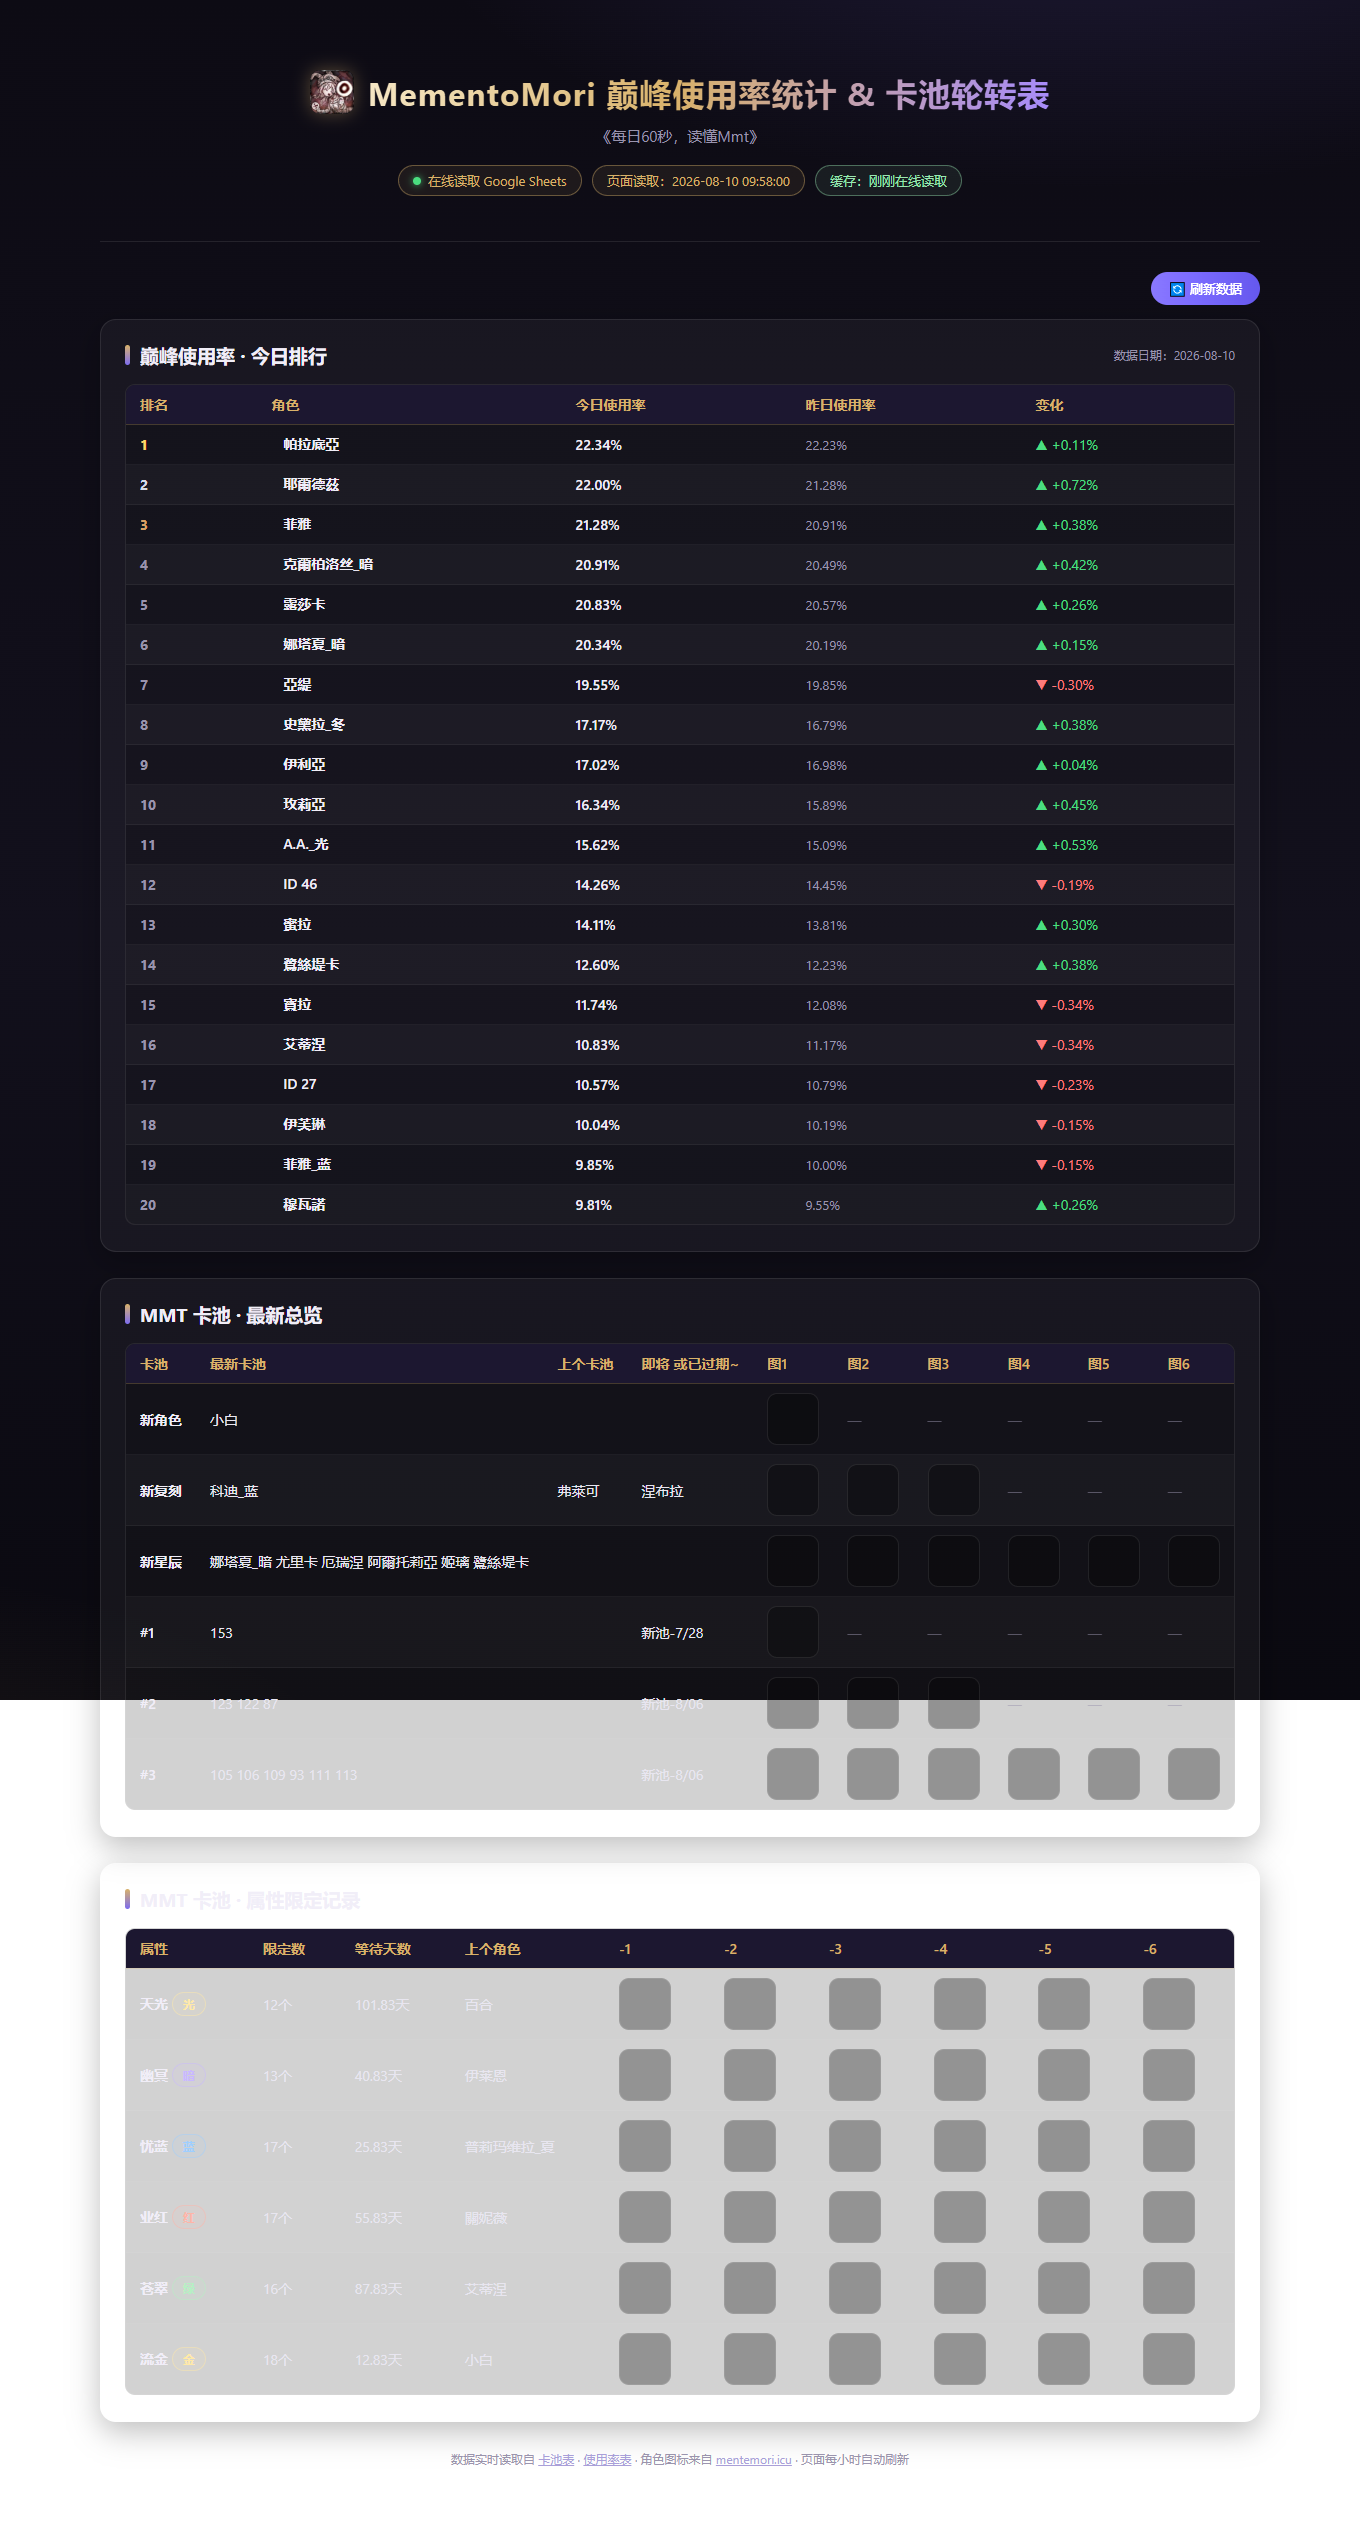
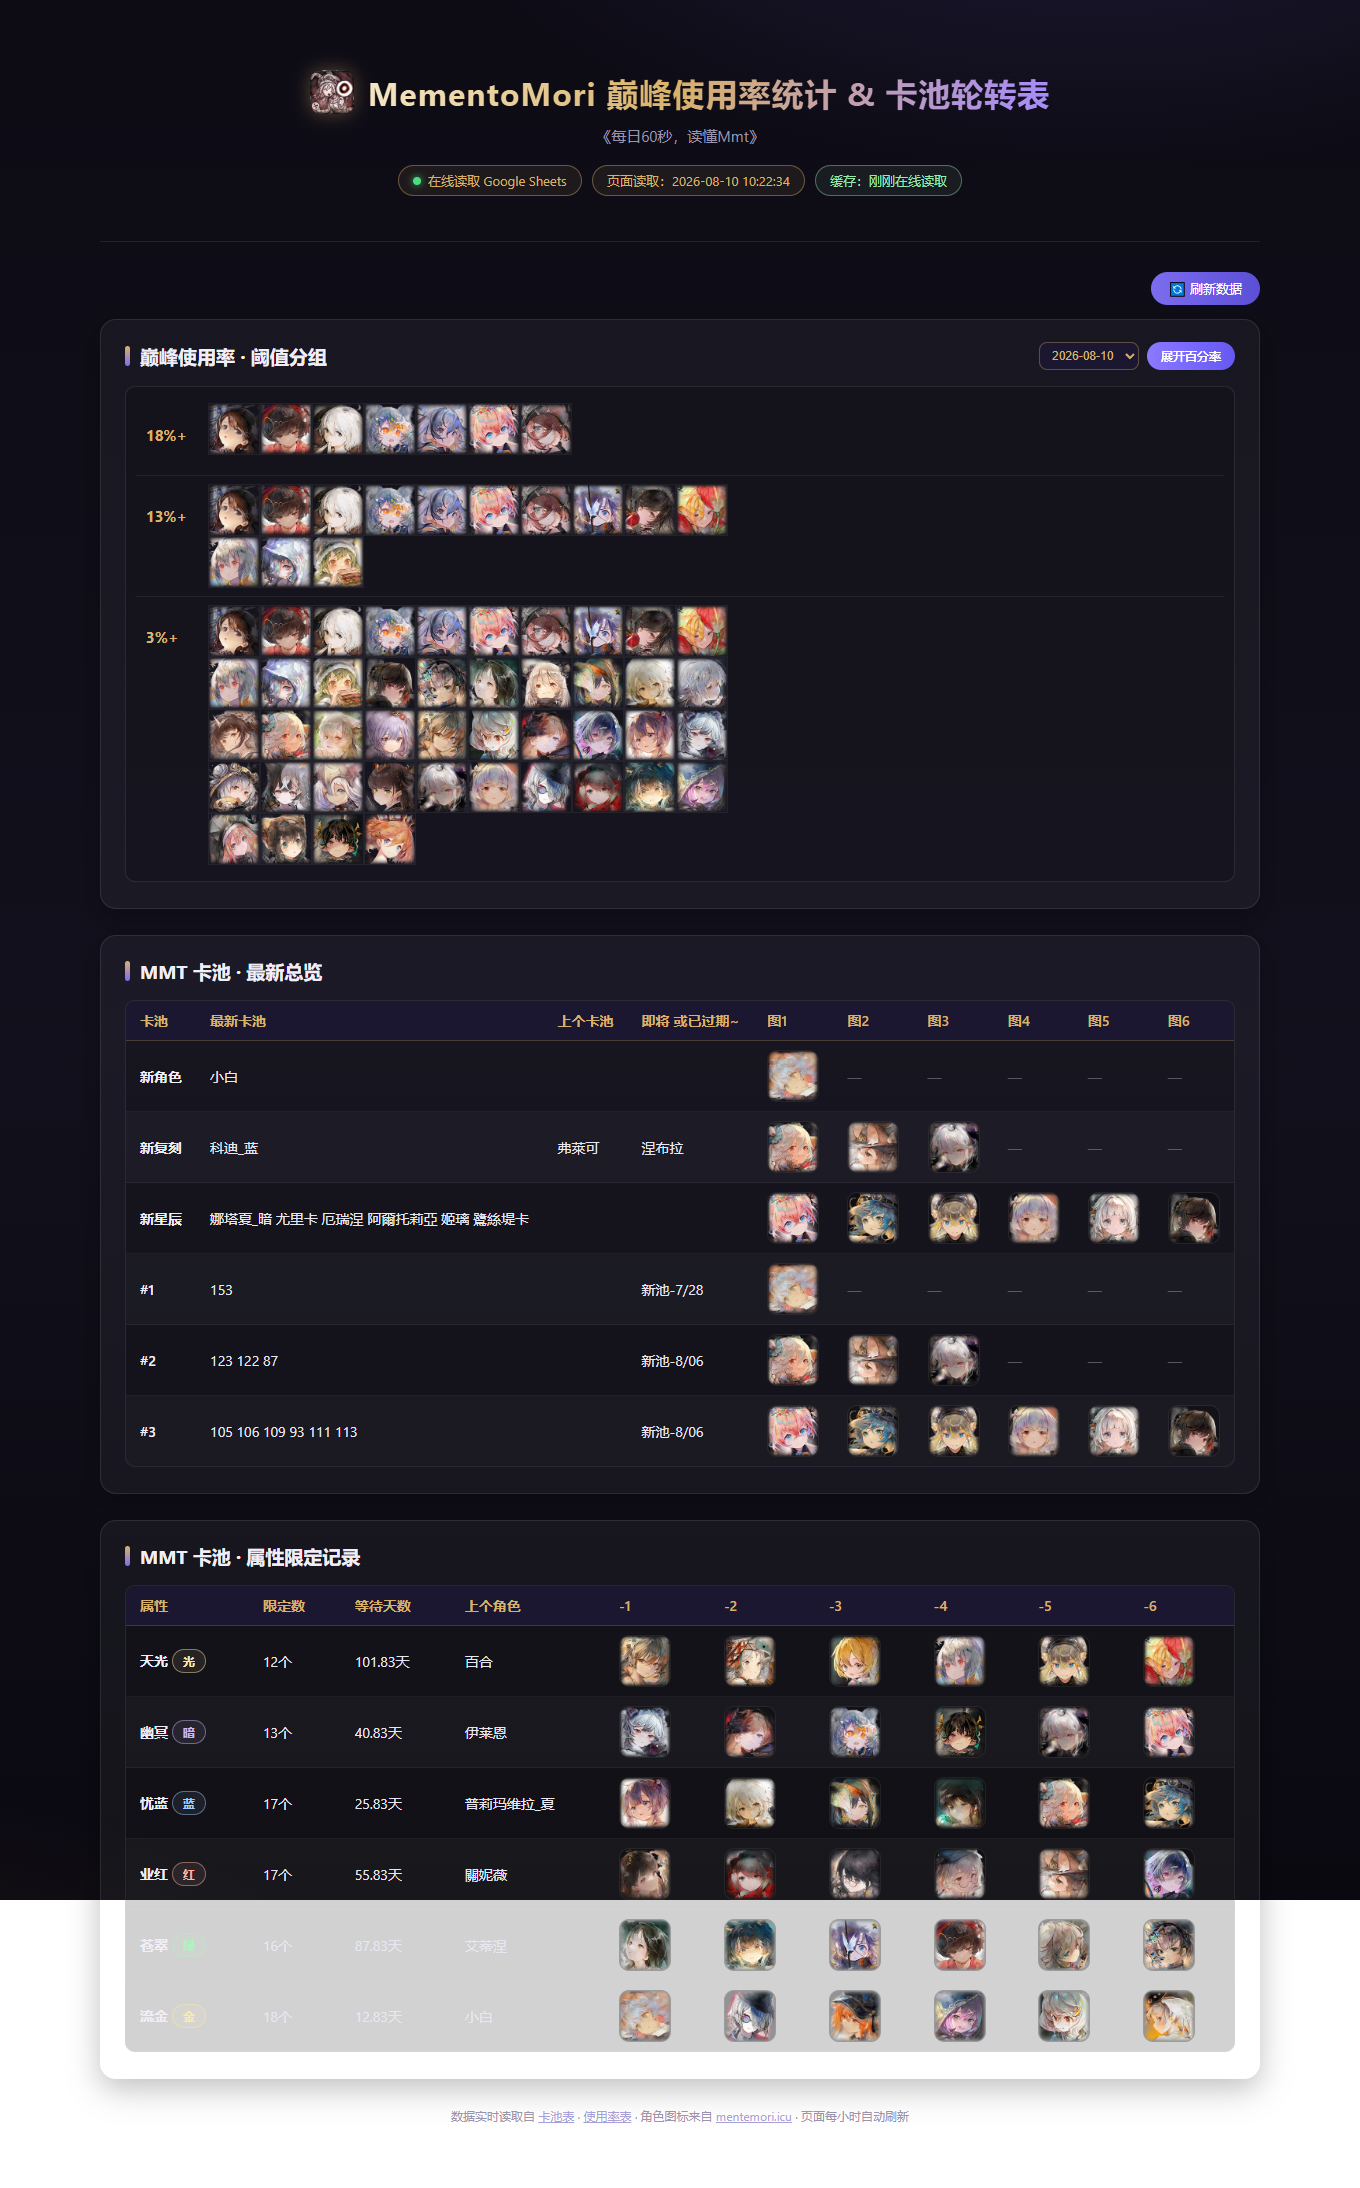
使用率表改为18%+/13%+/3%+阈值分组图标行(10个一行自动换行)，支持展开百分率与日期选择；去掉标题统计图emoji

diff --git a/index.html b/index.html
@@ -3,7 +3,7 @@
 <head>
 <meta charset="UTF-8">
 <meta name="viewport" content="width=device-width, initial-scale=1">
-<title>📊 MementoMori 巅峰使用率统计 &amp; 卡池轮转表</title>
+<title>MementoMori 巅峰使用率统计 &amp; 卡池轮转表</title>
 <link rel="icon" href="icon.png">
 <style>
 :root{
@@ -170,6 +170,19 @@ tbody tr:last-child td{border-bottom:none}
 .down{color:var(--down)}
 .flat{color:var(--muted)}
 .usage-pct{font-weight:600;color:#f1eef8}
+.usage-wrap{padding:8px 10px}
+.grp{display:flex;align-items:flex-start;border-bottom:1px solid rgba(255,255,255,.06)}
+.grp:last-child{border-bottom:none}
+.grp-label{flex:0 0 72px;padding:14px 10px;font-weight:700;color:var(--gold);font-size:15px;line-height:52px}
+.grp .icons{display:flex;flex-wrap:wrap;width:520px;gap:0;padding:8px 0}
+.ic{width:52px;height:52px;position:relative;overflow:hidden;border:1px solid rgba(255,255,255,.06)}
+.ic img{width:100%;height:100%;object-fit:cover;display:block}
+.ic .pct{display:none;position:absolute;left:0;right:0;bottom:0;background:rgba(10,8,20,.72);color:#ffe9a8;font-size:10px;line-height:14px;text-align:center}
+.usage-wrap.expanded .ic .pct{display:block}
+.h2-note{display:flex;align-items:center;gap:8px}
+.h2-note select{background:#1c1730;color:var(--gold);border:1px solid rgba(217,178,106,.35);border-radius:8px;padding:5px 8px;font-size:12px;outline:none}
+button.mini{background:linear-gradient(90deg,#7c6cf0,#5b4fd6);color:#fff;border:none;border-radius:999px;padding:6px 14px;font-size:12px;cursor:pointer}
+button.mini:hover{filter:brightness(1.12)}
 .usage-prev{color:var(--muted);font-size:13px}
 .loading,.error{color:var(--muted);padding:30px;text-align:center}
 .error{color:#ff9d9d}
@@ -207,8 +220,11 @@ footer a{color:#a99fd9}
   </div>
 
   <section class="card">
-    <h2>巅峰使用率 · 今日排行<span class="h2-note" id="usage-note"></span></h2>
-    <div class="table-wrap" id="tbl-usage"></div>
+    <h2>巅峰使用率 · 阈值分组<span class="h2-note">
+      <select id="usage-day" onchange="onDayChange()"></select>
+      <button type="button" id="btn-pct" class="mini" onclick="togglePct()">展开百分率</button>
+    </span></h2>
+    <div class="table-wrap usage-wrap" id="tbl-usage"></div>
   </section>
 
   <section class="card">
@@ -360,27 +376,33 @@ function computeCardTables(rows){
 }
 
 // ---------- 巅峰使用率：动态率表（gid 1850986413）----------
+function fmtDayLabel(label){
+  const m = /^(\d{2})(\d{2})(\d{2})/.exec(String(label || ""));
+  return m ? "20" + m[1] + "-" + m[2] + "-" + m[3] : String(label || "");
+}
 function computeUsage(data){
   const cols = data.table ? data.table.cols : [];
   const rows = data.table ? data.table.rows : [];
-  const todayLabel = cols[2] ? String(cols[2].label || "") : "";
-  const prevLabel = cols[3] ? String(cols[3].label || "") : "";
-  const list = [];
-  for (const r of rows){
-    const id = getV(r, 0);
-    if (id === null || id === undefined) continue;
-    const tv = getV(r, 2);
-    const pv = getV(r, 3);
-    list.push({
-      id: String(id).trim(),
-      tv: typeof tv === "number" ? tv : NaN,
-      pv: typeof pv === "number" ? pv : NaN,
-      tf: getF(r, 2) || (typeof tv === "number" ? (tv * 100).toFixed(2) + "%" : "—"),
-      pf: getF(r, 3) || (typeof pv === "number" ? (pv * 100).toFixed(2) + "%" : "—")
-    });
+  const days = [];
+  for (let c = 2; c < cols.length; c++){
+    const label = String(cols[c].label || "").trim();
+    if (!label) continue;
+    days.push({ c: c, label: label, display: fmtDayLabel(label) });
   }
-  list.sort((a, b) => b.tv - a.tv);
-  return { todayLabel: todayLabel, prevLabel: prevLabel, list: list.slice(0, USAGE_TOP) };
+  const perDay = {};
+  for (const d of days){
+    const list = [];
+    for (const r of rows){
+      const id = getV(r, 0);
+      if (id === null || id === undefined) continue;
+      const v = getV(r, d.c);
+      if (typeof v !== "number") continue;
+      list.push({ id: String(id).trim(), v: v, f: getF(r, d.c) || (v * 100).toFixed(2) + "%" });
+    }
+    list.sort((a, b) => b.v - a.v);
+    perDay[d.c] = list;
+  }
+  return { days: days, perDay: perDay };
 }
 
 // ---------- 角色名映射（卡-0 A -> G/F）----------
@@ -447,37 +469,55 @@ function renderElements(el){
     + '<th>-1</th><th>-2</th><th>-3</th><th>-4</th><th>-5</th><th>-6</th>'
     + "</tr></thead><tbody>" + body + "</tbody></table>";
 }
-function renderUsage(usage, names){
-  const fmtLabel = l => {
-    const m = /^(\d{2})(\d{2})(\d{2})/.exec(String(l || ""));
-    return m ? "20" + m[1] + "-" + m[2] + "-" + m[3] : l;
-  };
-  document.getElementById("usage-note").textContent = "数据日期：" + fmtLabel(usage.todayLabel);
-  let body = "";
-  usage.list.forEach((u, i) => {
-    const rank = i + 1;
-    const rankCls = rank === 1 ? "top1" : rank === 2 ? "top2" : rank === 3 ? "top3" : "";
-    const nm = names[u.id] || "";
-    const diff = u.tv - u.pv;
-    let trend;
-    if (!isNaN(diff)){
-      if (diff > 0.00005) trend = '<span class="up">▲ +' + (diff * 100).toFixed(2) + "%</span>";
-      else if (diff < -0.00005) trend = '<span class="down">▼ ' + (diff * 100).toFixed(2) + "%</span>";
-      else trend = '<span class="flat">— 0.00%</span>';
-    } else {
-      trend = '<span class="flat">—</span>';
+let usageState = null;
+let selectedDay = null;
+let pctOpen = false;
+
+function groupsFor(list){
+  return [
+    { label: "18%+", th: 0.18 },
+    { label: "13%+", th: 0.13 },
+    { label: "3%+",  th: 0.03 }
+  ].map(g => ({ label: g.label, items: list.filter(x => x.v >= g.th) }));
+}
+function renderUsage(){
+  const wrap = document.getElementById("tbl-usage");
+  const sel = document.getElementById("usage-day");
+  const btn = document.getElementById("btn-pct");
+  if (!usageState || selectedDay === null || !usageState.perDay[selectedDay]){
+    wrap.innerHTML = '<div class="error">暂无使用率数据</div>';
+    return;
+  }
+  const names = usageState.names || {};
+  const groups = groupsFor(usageState.perDay[selectedDay]);
+  let html = "";
+  for (const g of groups){
+    html += '<div class="grp"><span class="grp-label">' + esc(g.label) + '</span><div class="icons">';
+    for (const x of g.items){
+      const p = x.id.padStart(6, "0");
+      const nm = names[x.id] || ("ID " + x.id);
+      html += '<span class="ic" title="' + esc(nm) + " " + esc(x.f) + '">'
+            + '<img src="' + ICON_BASE + p + ICON_SUFFIX + '" alt="' + esc(x.id) + '" loading="lazy"'
+            + ' onerror="imgFail(this)" data-id="' + esc(x.id) + '">'
+            + '<span class="pct">' + esc(x.f) + '</span>'
+            + '</span>';
     }
-    body += "<tr>"
-      + '<td class="rank ' + rankCls + '">' + rank + "</td>"
-      + '<td class="cell-name">' + iconHtml(u.id, "sm") + " " + esc(nm || ("ID " + u.id)) + "</td>"
-      + '<td class="usage-pct">' + esc(u.tf) + "</td>"
-      + '<td class="usage-prev">' + esc(u.pf) + "</td>"
-      + "<td>" + trend + "</td>"
-      + "</tr>";
-  });
-  document.getElementById("tbl-usage").innerHTML =
-    '<table><thead><tr><th>排名</th><th>角色</th><th>今日使用率</th><th>昨日使用率</th><th>变化</th>'
-    + "</tr></thead><tbody>" + body + "</tbody></table>";
+    html += '</div></div>';
+  }
+  wrap.innerHTML = html;
+  wrap.classList.toggle("expanded", pctOpen);
+  btn.textContent = pctOpen ? "收起百分率" : "展开百分率";
+  sel.innerHTML = usageState.days.map(d =>
+    '<option value="' + d.c + '"' + (d.c === selectedDay ? " selected" : "") + ">" + esc(d.display) + "</option>"
+  ).join("");
+}
+function onDayChange(){
+  selectedDay = parseInt(document.getElementById("usage-day").value, 10);
+  renderUsage();
+}
+function togglePct(){
+  pctOpen = !pctOpen;
+  renderUsage();
 }
 
 // ---------- 时间 ----------
@@ -536,7 +576,12 @@ function applyAll(card0Text, usageText){
   const t = computeCardTables(card0.table.rows);
   renderOverview(t.overview);
   renderElements(t.elements);
-  renderUsage(computeUsage(usage), nameMapOf(card0.table.rows));
+  usageState = computeUsage(usage);
+  usageState.names = nameMapOf(card0.table.rows);
+  if (!selectedDay || !usageState.perDay[selectedDay]){
+    selectedDay = usageState.days.length ? usageState.days[0].c : null;
+  }
+  renderUsage();
 }
 function showLoading(){
   const html = '<div class="loading"><span class="spinner"></span><br>正在在线读取并计算…</div>';

diff --git a/README.md b/README.md
@@ -8,3 +8,5 @@
 - 浏览器本地缓存：同一浏览器 1 小时内再次打开直接秒开（不请求 Google），整点后才重新在线读取一次；“刷新数据”按钮可强制重新读取。
 - 注意：页面需通过 http(s) 访问（GitHub Pages 或本地服务器，如 `python -m http.server`）；直接双击 `file://` 打开会因浏览器跨域限制无法读取。
 - `.github/workflows/deploy.yml` 仅负责把页面部署到 GitHub Pages，不再生成内容。
+
+- 预览图：GitHub 仓库只保留一张 `preview_screenshot.png`（随版本更新，不留档）；每个版本另存本地 `previews/260810_HHMM.png` 存档（`.gitignore` 忽略，不上传）。
